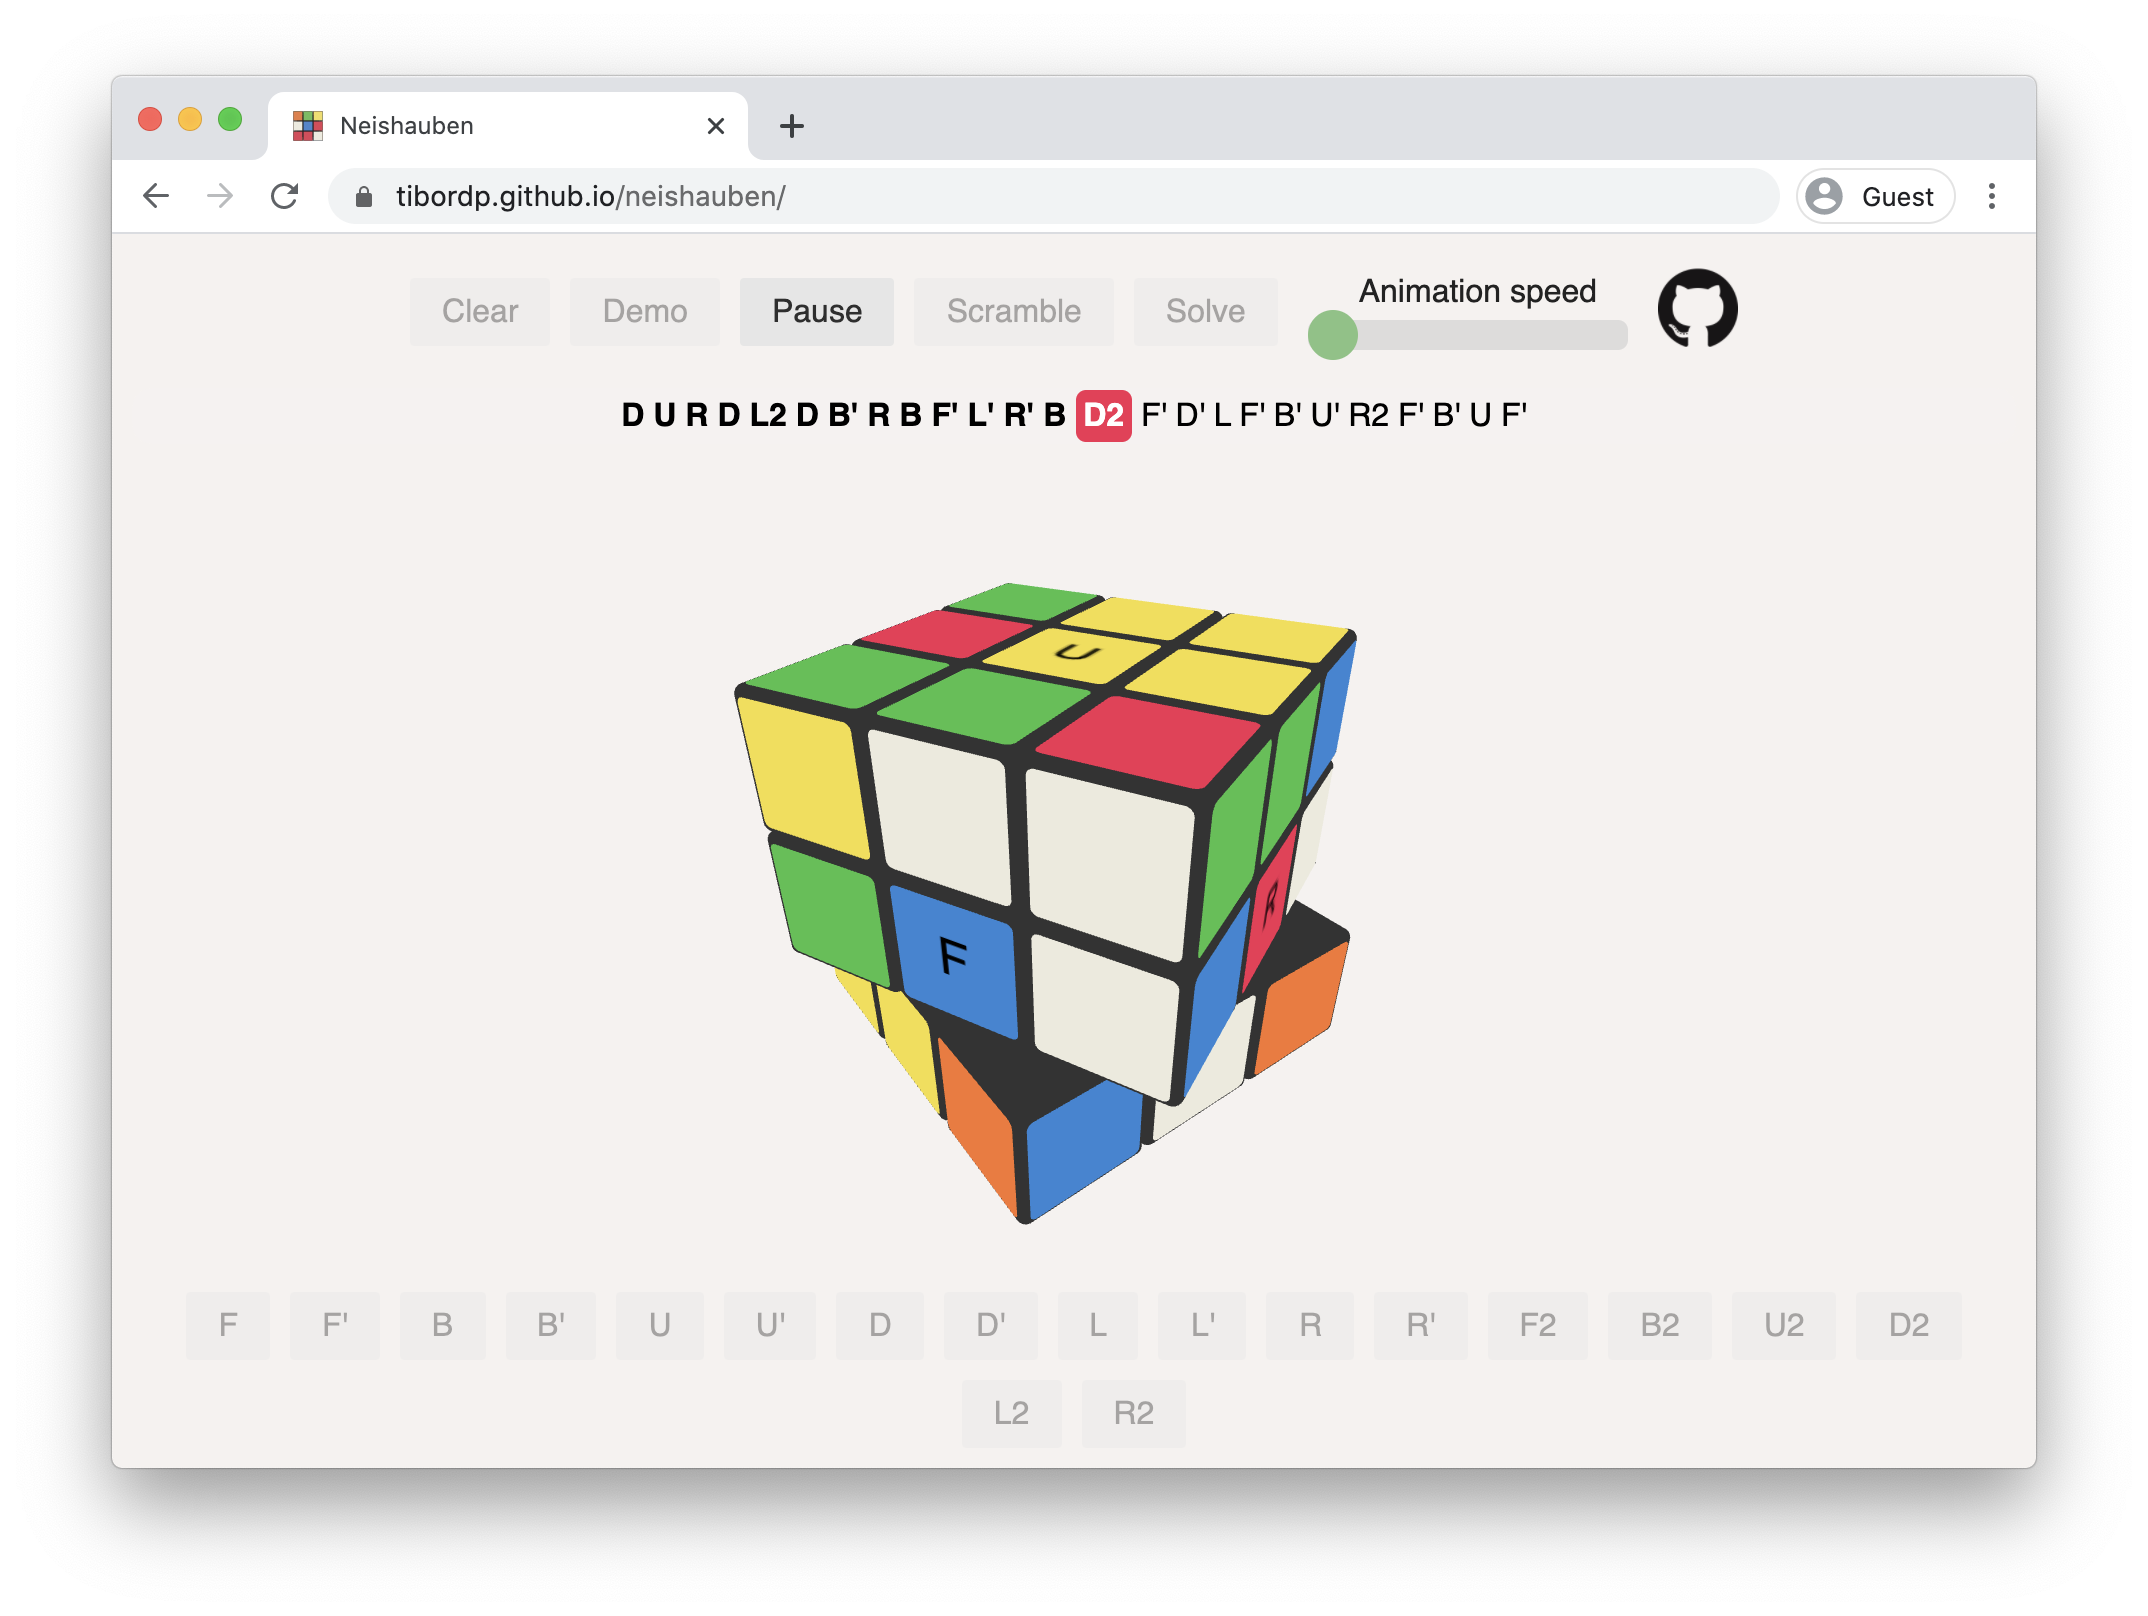
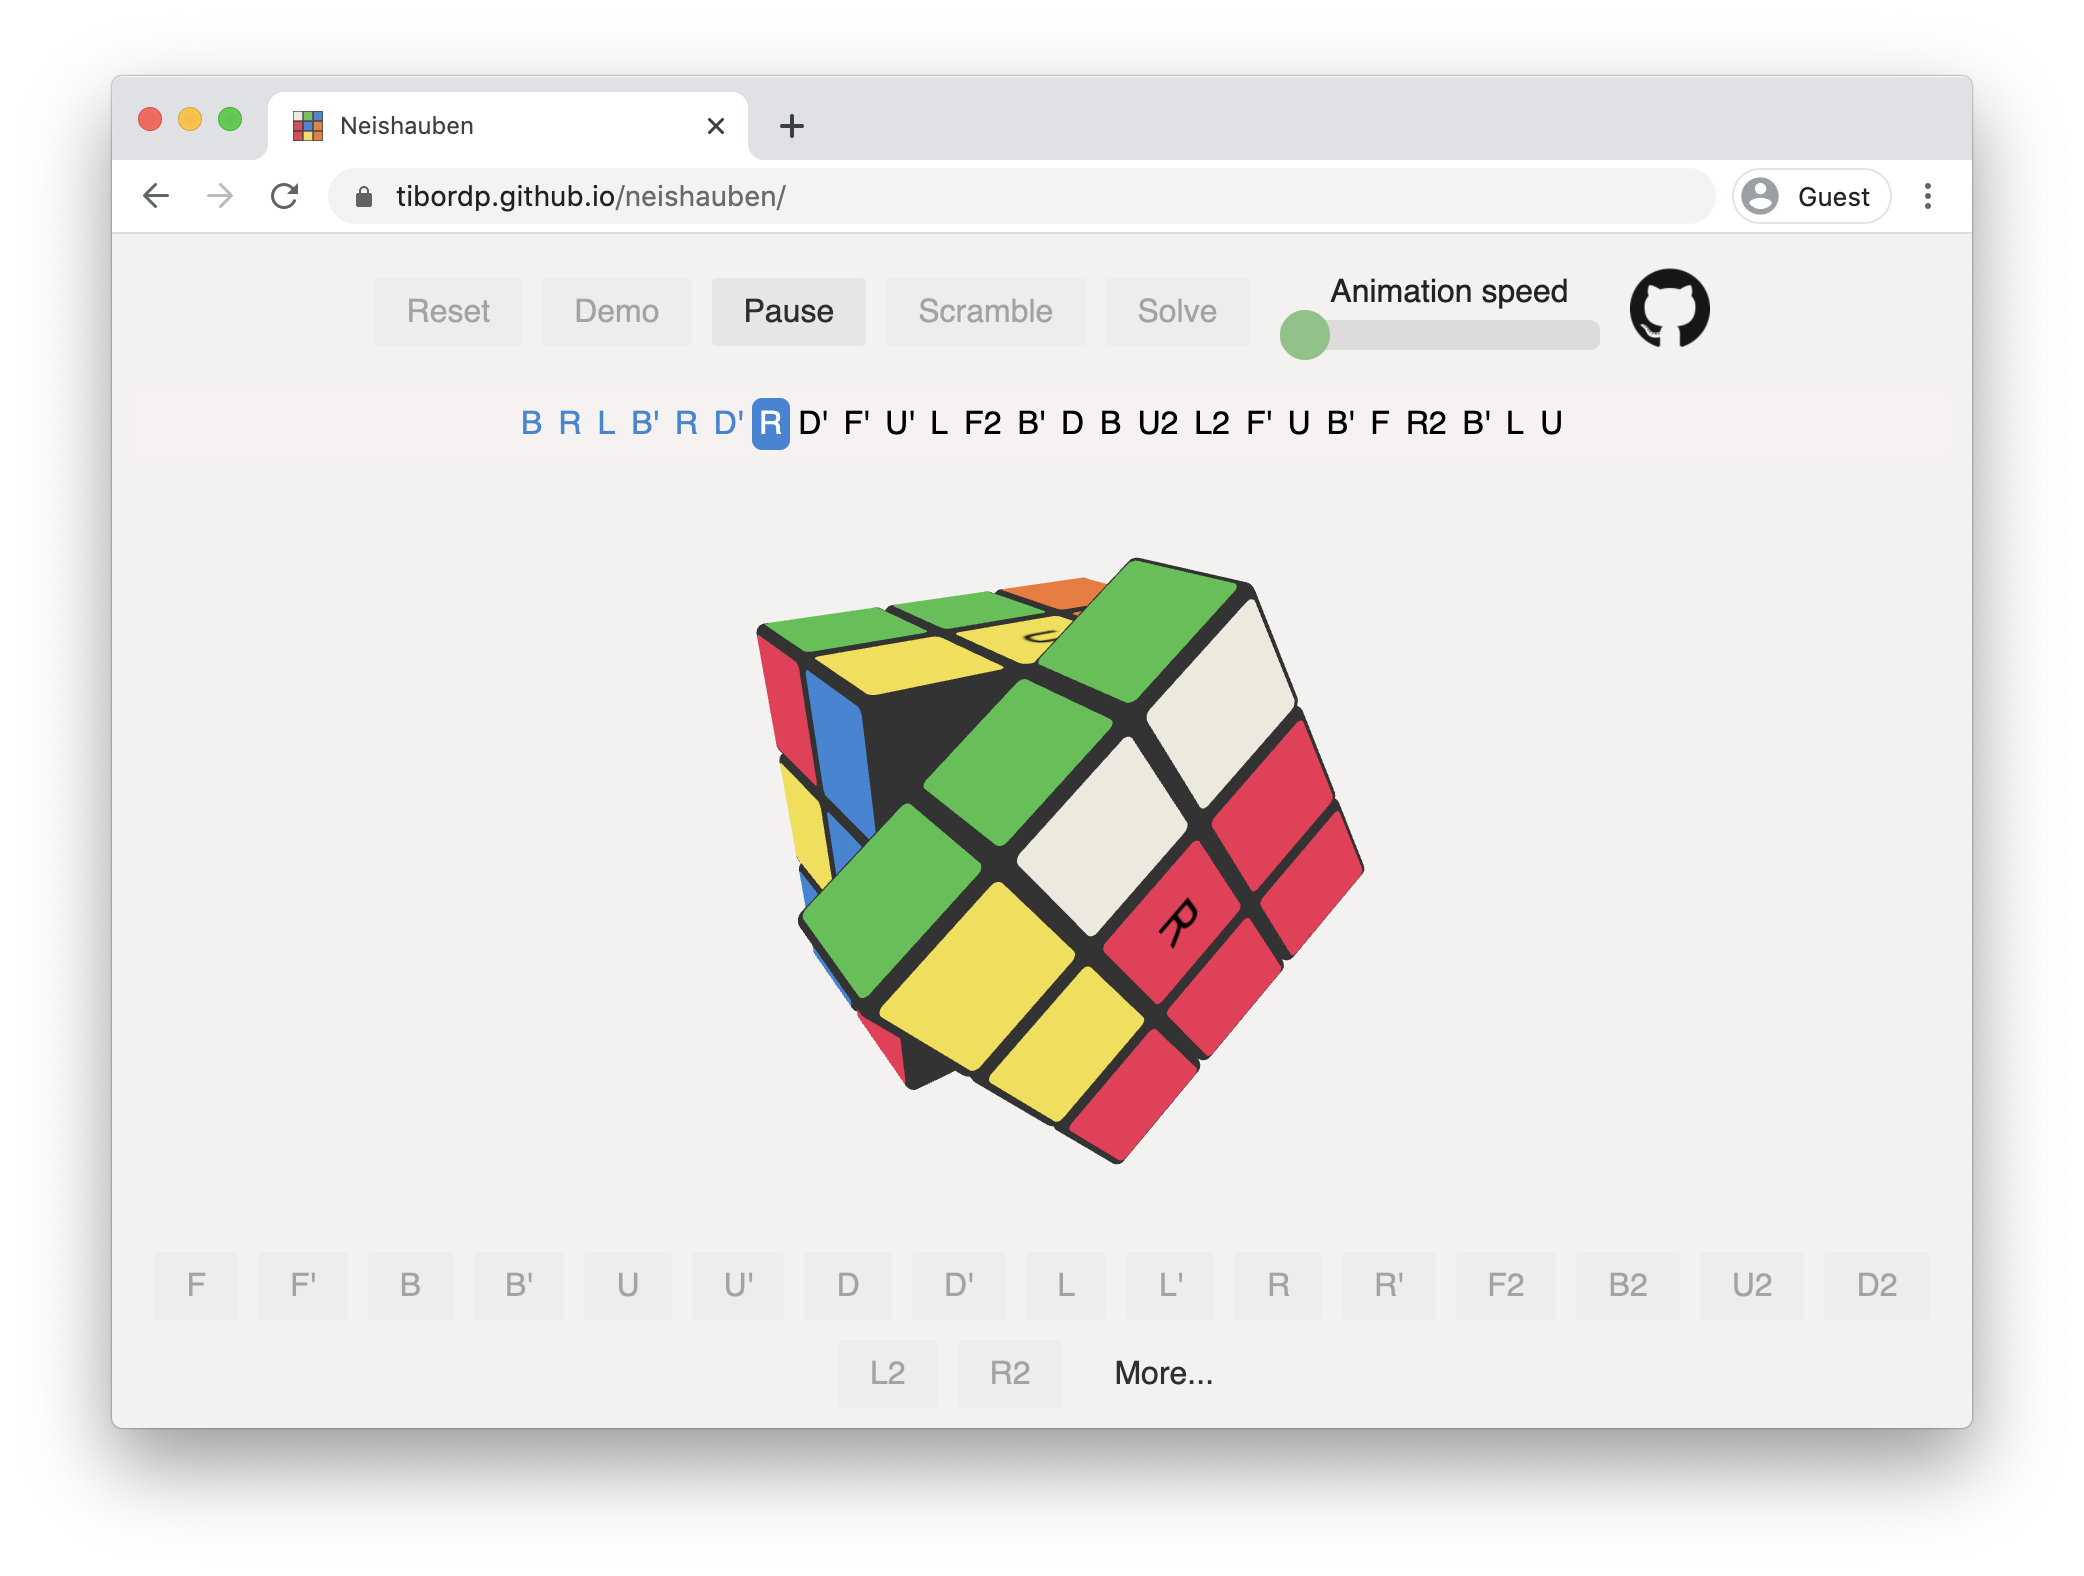
docs: Update docs

diff --git a/src/index.css b/src/index.css
@@ -50,17 +50,8 @@ a.algorithm-link {
     text-decoration: inherit;
 }
 
-a.algorithm-link[href]:hover {
+a.algorithm-link[href]:hover, a.algorithm-current {
     background-color: #3484d5;
-    box-sizing: content-box;
-    color: white;
-    border-radius: 5px;
-    position: relative;
-    z-index: 1;
-}
-
-a.algorithm-current {
-    background-color: #f22d54;
     box-sizing: content-box;
     color: white;
     border-radius: 5px;

diff --git a/README.md b/README.md
@@ -20,7 +20,7 @@ yarn dev
 ```
 
 The app will launch at 
-https://localhost:8080/neishauben/
+http://localhost:8080/neishauben/
 
 Tests run with
 ```bash
